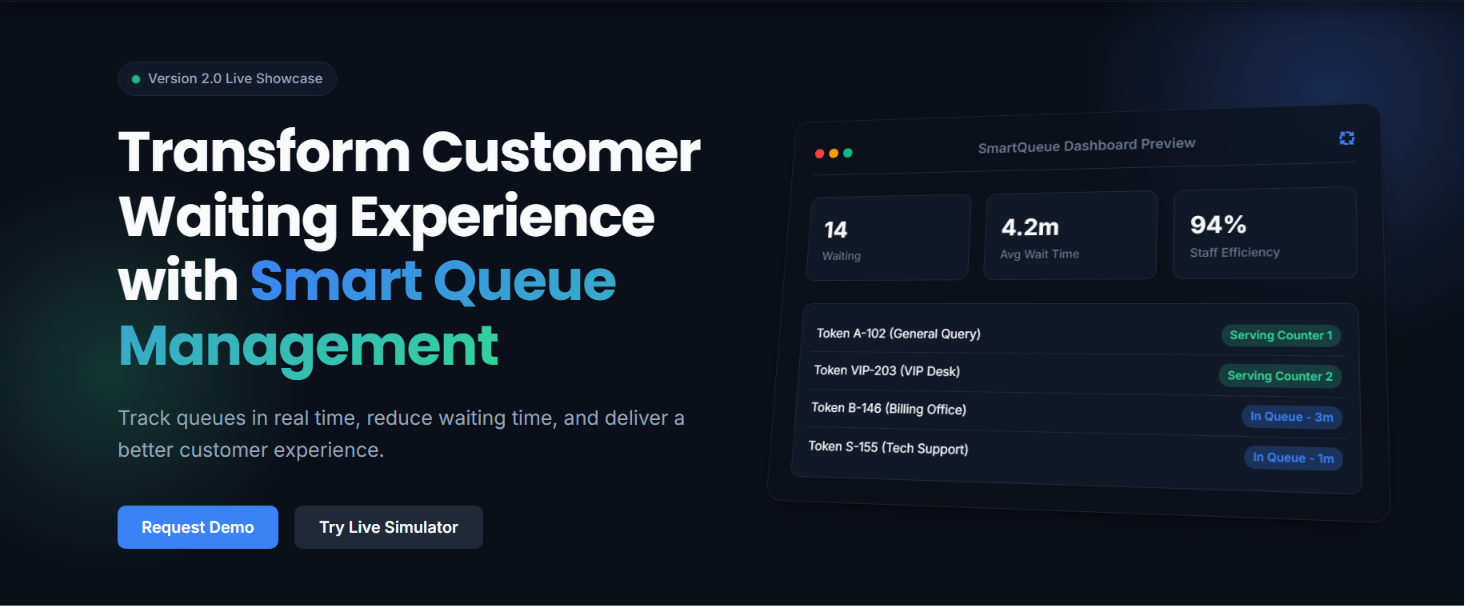
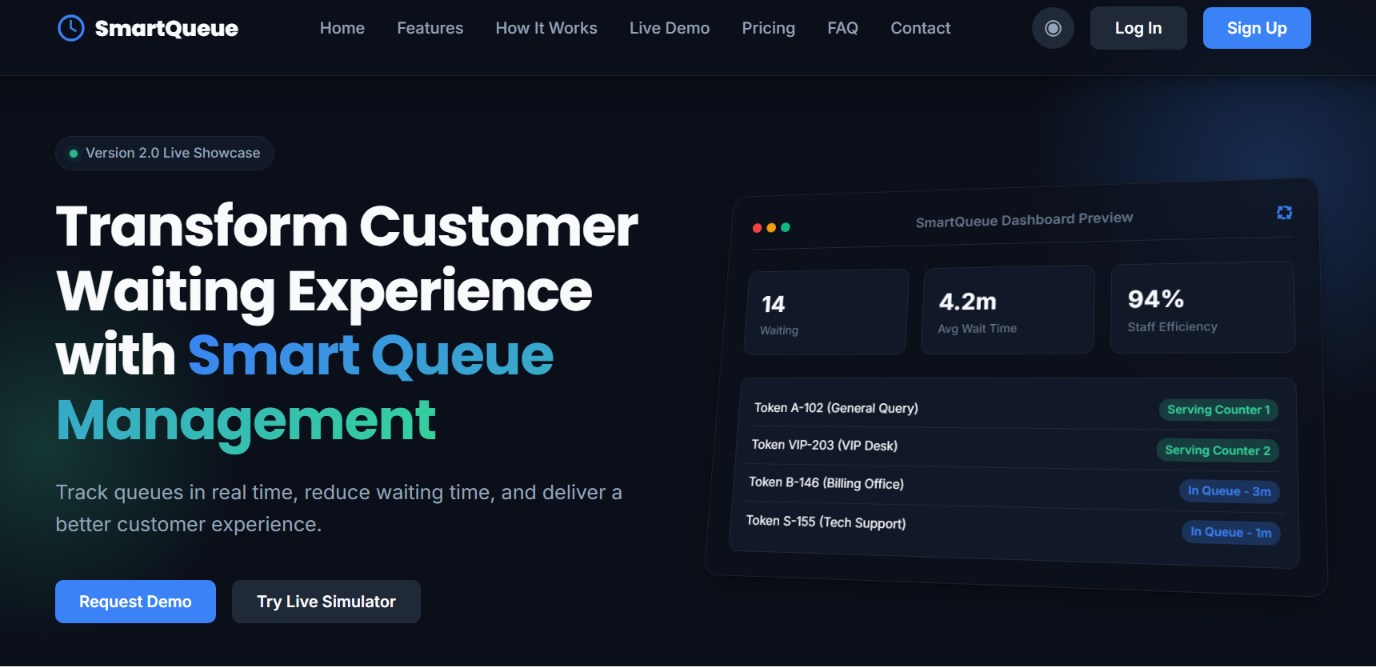
Updated Projects Section Civic AI

diff --git a/src/data/index.js b/src/data/index.js
@@ -64,6 +64,71 @@ export const techIcons = [
 export const projects = [
   {
   id: 1,
+  title: "CivicAI — AI-Powered Smart Civic Incident Platform",
+
+  description:
+    "Developed and deployed an AI-powered civic incident reporting and smart governance platform.",
+
+  longDesc:
+    "A full-stack AI-powered civic incident response platform integrating Google Gemini AI, geospatial intelligence, multilingual conversational AI, and smart navigation for transparent civic issue reporting and resolution.",
+
+  tech: [
+    "React.js",
+    "Tailwind CSS",
+    "Node.js",
+    "Express.js",
+    "MongoDB Atlas",
+    "Google Gemini API",
+    "Google AI Studio",
+    "JWT",
+    "Cloudinary",
+    "Firebase",
+    "Leaflet",
+    "OpenStreetMap",
+    "OSRM"
+  ],
+
+  features: [
+    "Google Gemini AI Analysis",
+    "Multilingual AI Assistant (English/Hindi/Hinglish)",
+    "Automatic Issue Classification",
+    "Severity Detection & Priority Scoring",
+    "AI Generated Summaries",
+    "Interactive GIS Maps",
+    "Smart Navigation System",
+    "Citizen & Admin Dashboards",
+    "Gamification & Community Support",
+    "JWT Authentication"
+  ],
+
+  github: "https://github.com/Arpit1825/CivicAI",
+
+  demo: "https://civicai-hackathon-1db59.web.app/",
+
+  featured: true,
+
+  badge: "Google For Developers × Vibe2Ship Hackathon",
+
+  color: "#92b0e7",
+
+  gradient: "from-blue-500/20 to-cyan-500/20",
+
+  image: "/projects/landing-page.png",
+},{ id: 2,
+    title: "Smart Water Automation & Dosing System",
+    description: "Patent-backed IoT-based water quality monitoring and automated dosing system with real-time sensor processing, dashboard analytics, and automated chemical dosing.",
+    longDesc: "An innovative IoT solution using ESP32 microcontrollers for real-time water quality monitoring. The system automates chemical dosing based on sensor data and provides live dashboard analytics.",
+    tech: ["ESP32", "Python", "IoT", "MERN Dashboard", "Sensor Processing"],
+    features: ["ESP32 Integration", "Real-time Monitoring", "Dashboard Analytics", "Automated Chemical Dosing", "Sensor Data Processing"],
+    github: "https://github.com/Arpit1825/Smart-Water-Automation-Dosing-System",
+    demo: "https://smart-water-automation-dosing-syste.vercel.app/",
+    featured: true,
+    badge: "Patent Published – Indian Patent Journal (Feb 2026)",
+    color: "#00d4ff",
+    gradient: "from-cyan-500/20 to-blue-500/20",
+    image: "/projects/water.png",
+  },{
+  id: 3,
   title: "Smart Queue Management System",
   description:
     "Real-time queue management platform with QR code-based token tracking, multi-counter support, live queue updates, and analytics dashboard.",
@@ -95,21 +160,21 @@ export const projects = [
   gradient: "from-blue-500/20 to-cyan-500/20",
    image: "/projects/queue.png",
 },
-   { id: 2,
-    title: "Smart Water Automation & Dosing System",
-    description: "Patent-backed IoT-based water quality monitoring and automated dosing system with real-time sensor processing, dashboard analytics, and automated chemical dosing.",
-    longDesc: "An innovative IoT solution using ESP32 microcontrollers for real-time water quality monitoring. The system automates chemical dosing based on sensor data and provides live dashboard analytics.",
-    tech: ["ESP32", "Python", "IoT", "Dashboard Dev", "Sensor Processing"],
-    features: ["ESP32 Integration", "Real-time Monitoring", "Dashboard Analytics", "Automated Chemical Dosing", "Sensor Data Processing"],
-    github: "https://github.com/Arpit1825/Smart-Water-Automation-Dosing-System",
-    demo: "https://smart-water-automation-dosing-syste.vercel.app/",
+  {
+    id: 4,
+    title: "Travel In-Depth",
+    description: "Sustainable travel guide platform promoting eco-friendly tourism with destination insights, sustainability recommendations, and a fully responsive design.",
+    longDesc: "A modular, responsive travel platform that highlights sustainable tourism practices. Built with vanilla web technologies for maximum compatibility and fast load times.",
+    tech: ["React","Node.js","Mongo DB","Express","HTML", "CSS", "JavaScript",],
+    features: ["Destination Insights", "Sustainability Recommendations", "Responsive Design", "Modular Architecture"],
+    github: "https://github.com/Arpit1825/travel-in-depth",
+    demo: "https://travel-in-depth.vercel.app",
     featured: true,
-    badge: "Patent Published – Indian Patent Journal (Feb 2026)",
-    color: "#00d4ff",
-    gradient: "from-cyan-500/20 to-blue-500/20",
-    image: "/projects/water.png",
-  },
-    {id: 3,
+    badge: null,
+    color: "#22d3ee",
+    gradient: "from-emerald-500/20 to-teal-500/20",
+    image: "/projects/travel.png",
+  },  {id: 5,
     title: "CryptoTracker",
     description: "Real-time cryptocurrency tracking platform monitoring 500+ cryptocurrencies with live price data, historical trend analysis, and interactive charts.",
     longDesc: "Built with React and Redux Toolkit, this platform integrates the CoinGecko API to deliver live crypto data. Features include portfolio tracking, price alerts, and interactive Chart.js visualizations.",
@@ -122,28 +187,13 @@ export const projects = [
     color: "#f7931a",
     gradient: "from-orange-500/20 to-yellow-500/20",
     image: "/projects/crypto.png",
-  },
-  {
-    id: 4,
-    title: "Travel In-Depth",
-    description: "Sustainable travel guide platform promoting eco-friendly tourism with destination insights, sustainability recommendations, and a fully responsive design.",
-    longDesc: "A modular, responsive travel platform that highlights sustainable tourism practices. Built with vanilla web technologies for maximum compatibility and fast load times.",
-    tech: ["HTML", "CSS", "JavaScript"],
-    features: ["Destination Insights", "Sustainability Recommendations", "Responsive Design", "Modular Architecture"],
-    github: "https://github.com/Arpit1825/travel-in-depth",
-    demo: "https://travel-in-depth.vercel.app",
-    featured: true,
-    badge: null,
-    color: "#22d3ee",
-    gradient: "from-emerald-500/20 to-teal-500/20",
-    image: "/projects/travel.png",
   }
 ];
 
 export const achievements = [
   {
     icon: "code",
-    title: "182+ DSA Problems",
+    title: "200+ DSA Problems",
     subtitle: "Solved on LeetCode",
     description: "Diving into competitive programming practice across arrays, trees, graphs, DP.",
     color: "#f7931a",
@@ -157,6 +207,15 @@ export const achievements = [
     description: "IoT Water Automation & Dosing System — patent published nationally.",
     color: "#a855f7",
     count: 1,
+    suffix: "",
+  },
+  {
+    icon: "cert",
+    title: "Hackathon Participation",
+    subtitle: "GoogleforDevelopers x  Vibe2Ship",
+    description: "A full-stack AI-powered civic incident response platform integrating Google Gemini AI, geospatial intelligence, multilingual conversational AI, and smart navigation for transparent civic issue reporting and resolution.",
+    color: "#fb923c",
+    count: null,
     suffix: "",
   },
   {

diff --git a/src/components/sections/Projects.jsx b/src/components/sections/Projects.jsx
@@ -43,14 +43,14 @@ function ProjectCard({ project, index }) {
         style={{ background: `linear-gradient(90deg, ${project.color}, transparent)` }} />
 
       {/* Project visual */}
-      <div className={`relative overflow-hidden ${isLarge ? 'h-48' : 'h-36'}`}
+      <div className={`relative overflow-hidden ${isLarge ? 'h-50' : 'h-36'}`}
         style={{ background: `linear-gradient(135deg, ${project.gradient?.replace('from-', '').replace('to-', '') || '#1a1a2e'})` }}>
         <div className="absolute inset-0 flex items-center justify-center">
-          <div className="h-32 w-full overflow-hidden rounded-lg mb-4">
+          <div className="h-72 w-full overflow-hidden rounded-lg mb-4">
   <img
     src={project.image}
     alt={project.title}
-    className="w-full h-full object-cover"
+    className="w-full h-full mt-20"
   />
 </div>
         </div>
@@ -60,7 +60,7 @@ function ProjectCard({ project, index }) {
         {/* Badge */}
         {project.badge && (
           <div className="absolute top-3 left-3 flex items-center gap-1.5 px-2.5 py-1 rounded-full text-[10px] font-mono"
-            style={{ background: 'rgba(168,85,247,0.2)', border: '1px solid rgba(168,85,247,0.3)', color: '#c084fc' }}>
+            style={{ background: 'rgba(183, 117, 246, 0.6)', border: '1px solid rgba(77, 3, 143, 0.3)', color: '#110c11' }}>
             <FiAward size={10} /> {project.badge}
           </div>
         )}
